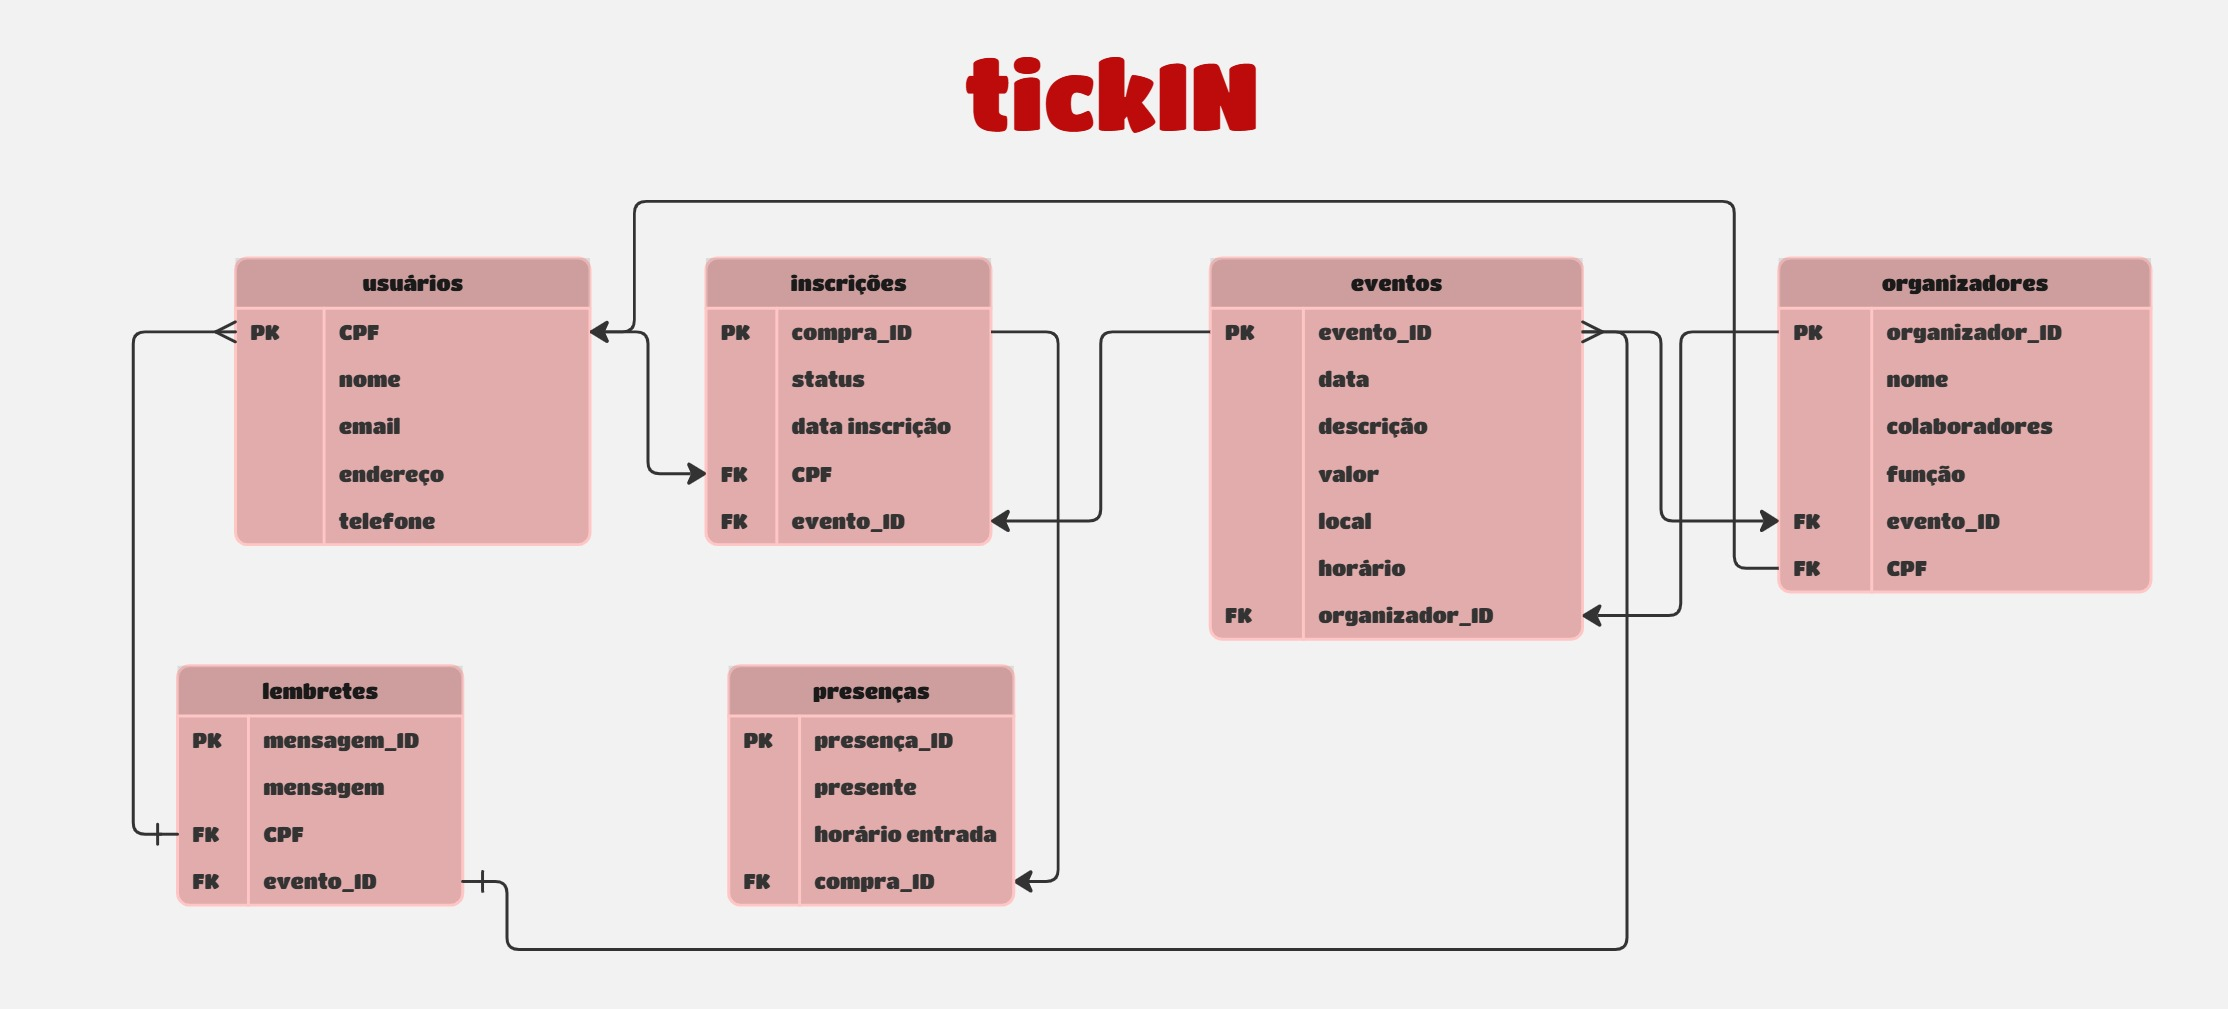
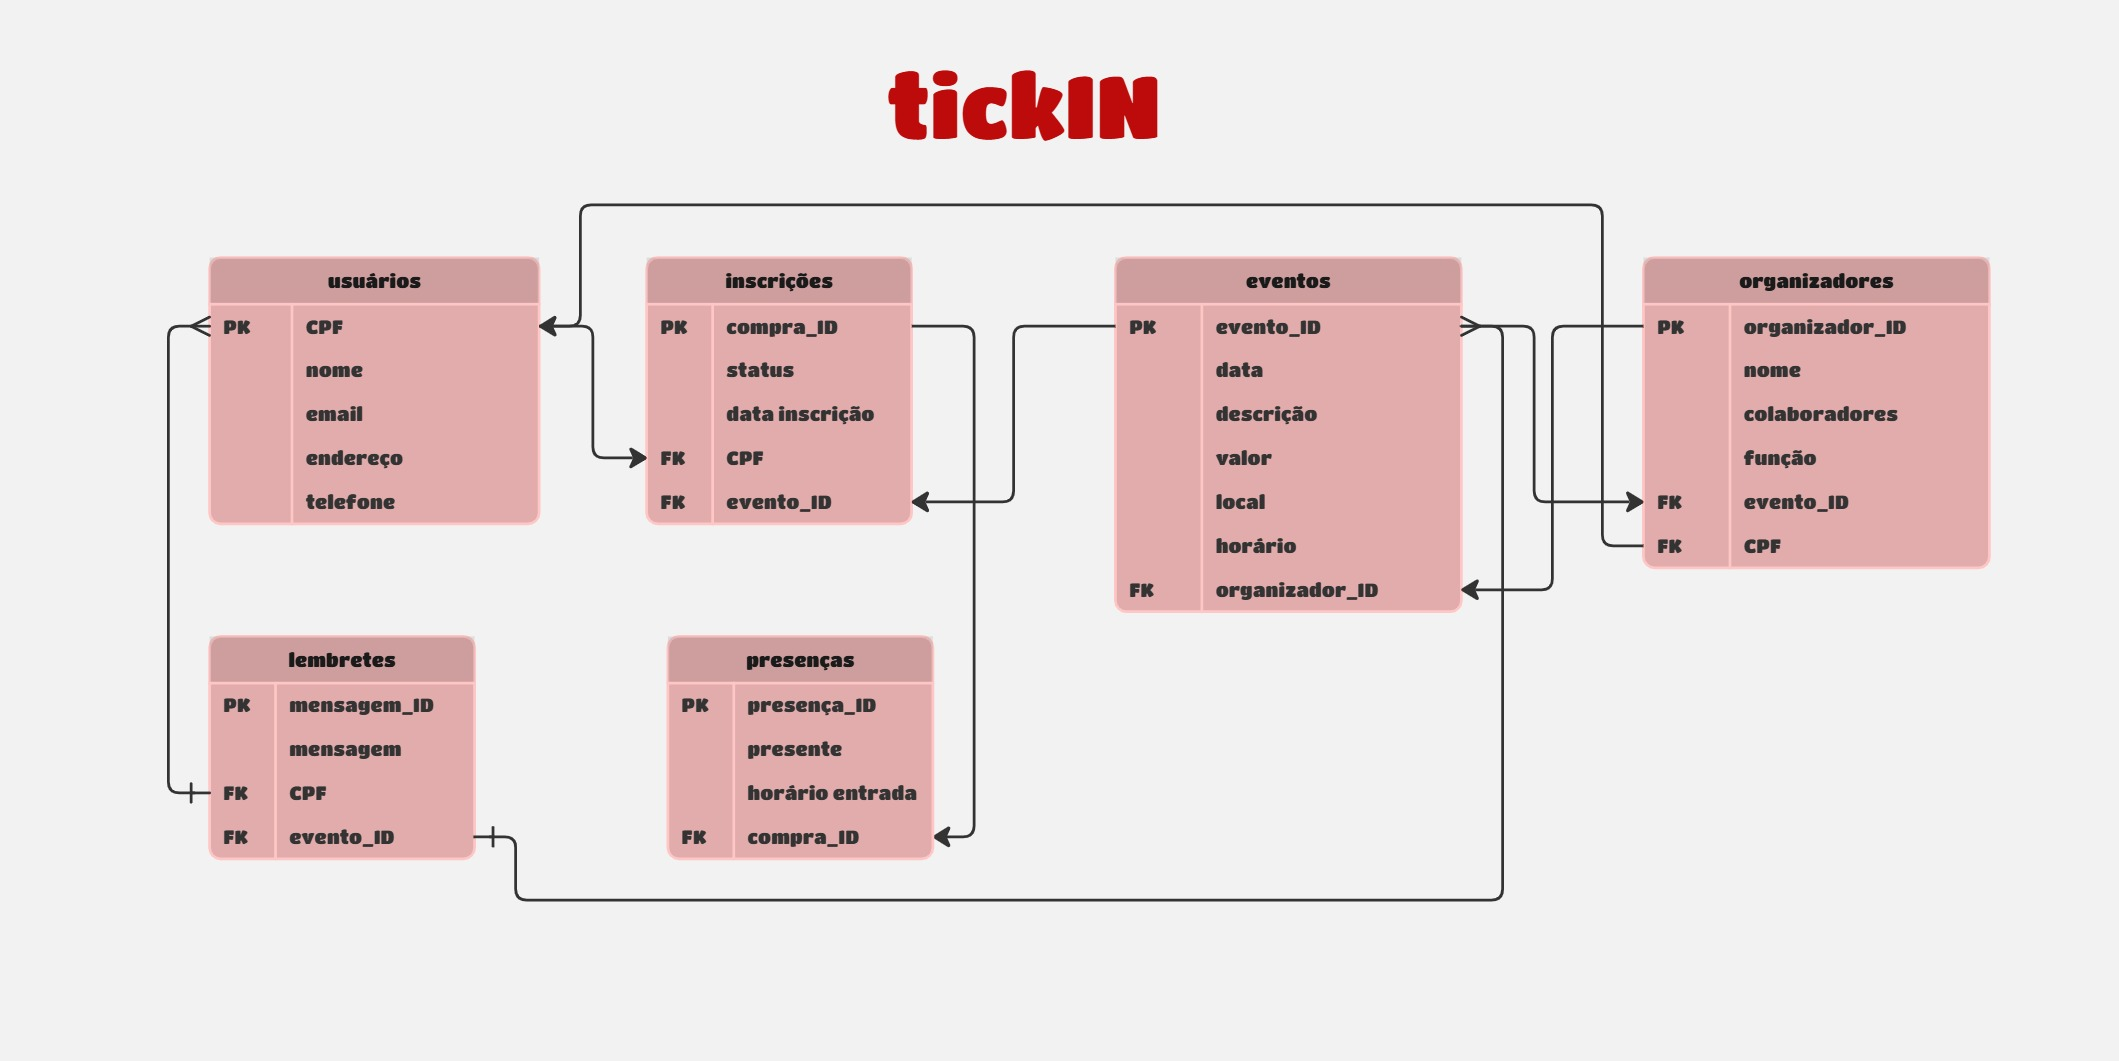
feat: adicionar seção 3.1 WAD e conteúdos da modelagem

diff --git a/PI-WAD.md b/PI-WAD.md
@@ -82,10 +82,23 @@ User Stories são descrições curtas e informais de uma funcionalidade desejada
 ## <a name="c3"></a>3. Projeto da Aplicação Web
 
 ### 3.1. Modelagem do banco de dados  (Semana 3)
+Modelagem de banco de dados é o processo de representar de maneira estruturada os dados e suas relações, com o objetivo de garantir organização, integridade e eficiência no armazenamento e recuperação de informações em sistemas computacionais. Essa prática permite que desenvolvedores e analistas visualizem como os dados se interconectam antes de implementá-los fisicamente, facilitando decisões técnicas e de negócio. A modelagem geralmente ocorre em três níveis: conceitual (representação abstrata com entidades e relacionamentos), lógico (ajuste ao modelo de dados do SGBD) e físico (estrutura real no banco). Segundo o Instituto de Ciências Matemáticas e de Computação da USP (ICMC-USP)[³](#5-referências), essa abordagem contribui para a construção de sistemas robustos e escaláveis, além de promover uma comunicação clara entre os stakeholders envolvidos no projeto.
 
-*Posicione aqui os diagramas de modelos relacionais do seu banco de dados, apresentando todos os esquemas de tabelas e suas relações. Utilize texto para complementar suas explicações, se necessário.*
+<div align="center">
+  <sub>FIGURA 3 - Modelagem banco de dados</sub><br>
+  <img src= "assets/modelo-banco.jpg" width="100%" 
+  alt="Modelagem banco de dados"><br>
+  <sup>Fonte: Material produzido pela autora, 2025</sup>
+</div>
 
-*Posicione também o modelo físico com o Schema do BD (arquivo .sql)*
+[Clique aqui para acessar o schema do banco de dados no SQL](config/modelo-dados.sql)
+
+A modelagem do banco de dados do sistema TickIN foi estruturada para gerenciar eventos, inscrições e controle de presença. O modelo possui seis tabelas principais (usuarios, eventos, inscricoes, presencas, lembretes, organizadores), interligadas por chaves primárias(PK) e estrangeiras(FK), garantindo integridade e rastreabilidade.
+
+O CPF identifica unicamente os usuários, que podem se inscrever em eventos, receber lembretes e ter presença registrada. Organizadores estão associados aos eventos e também aos usuários. A estrutura foi planejada para ser clara, normalizada e pronta para expansão, permitindo operações como consulta de eventos por usuário, controle de presenças e envio de mensagens automáticas.
+
+
+
 
 ### 3.1.1 BD e Models (Semana 5)
 *Descreva aqui os Models implementados no sistema web*
@@ -145,6 +158,7 @@ User Stories são descrições curtas e informais de uma funcionalidade desejada
 
 ² COHN, Mike. User Stories Applied: For Agile Software Development. Boston: Addison-Wesley, 2004.
 
+³ UNIVERSIDADE DE SÃO PAULO. Instituto de Ciências Matemáticas e de Computação – Banco de Dados I. São Carlos: ICMC-USP, 2021. Disponível em: https://www.icmc.usp.br. Acesso em: 8 maio 2025.
 <br>
 
 ---
